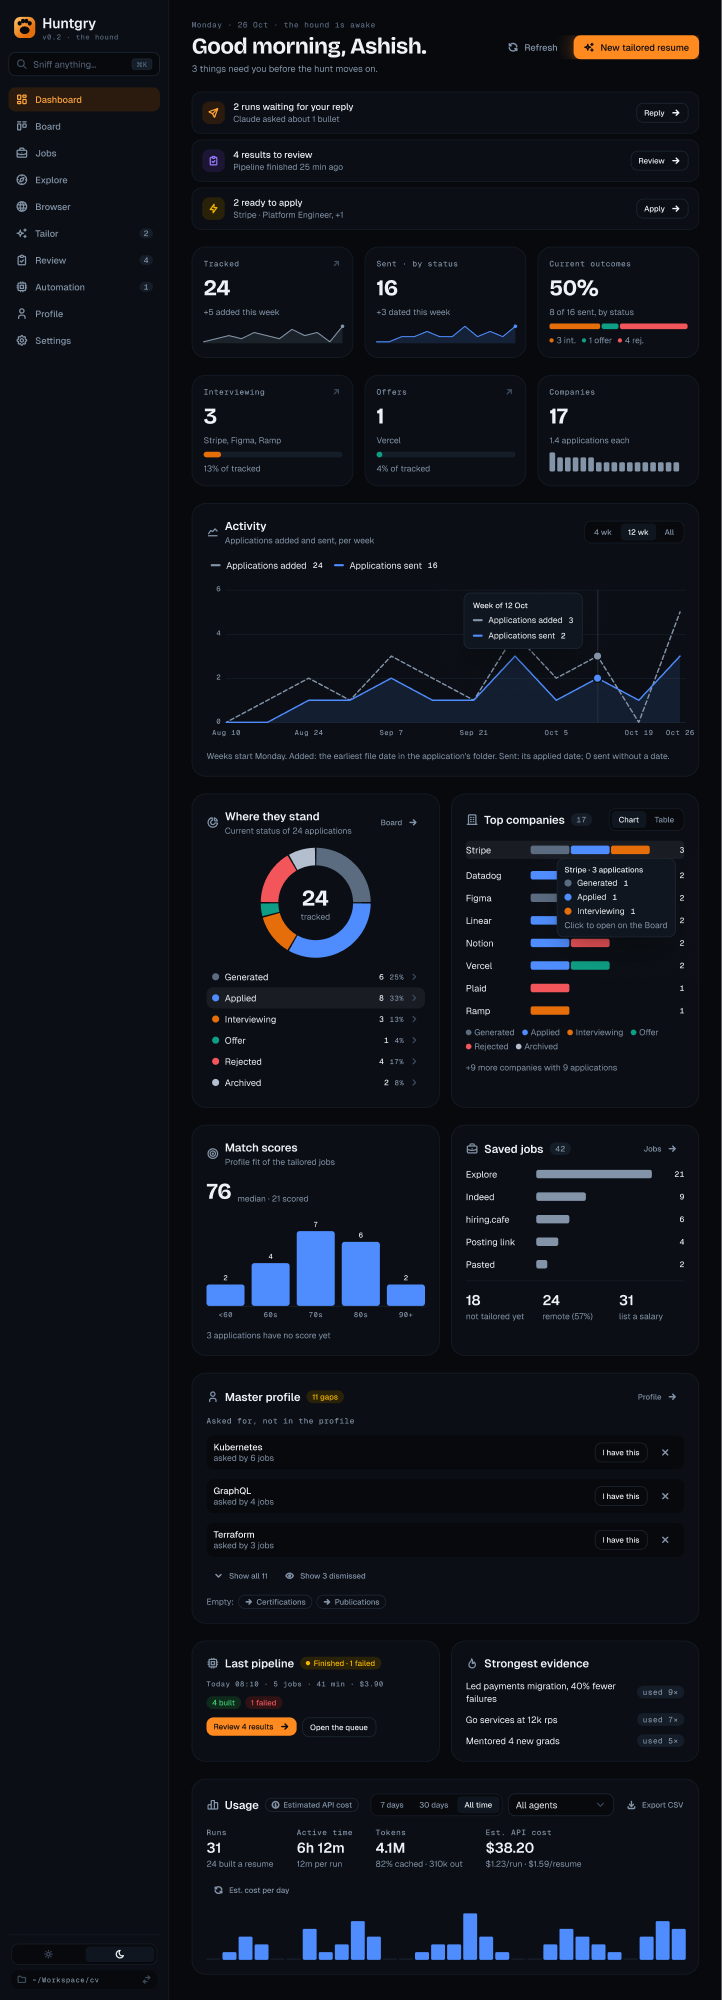
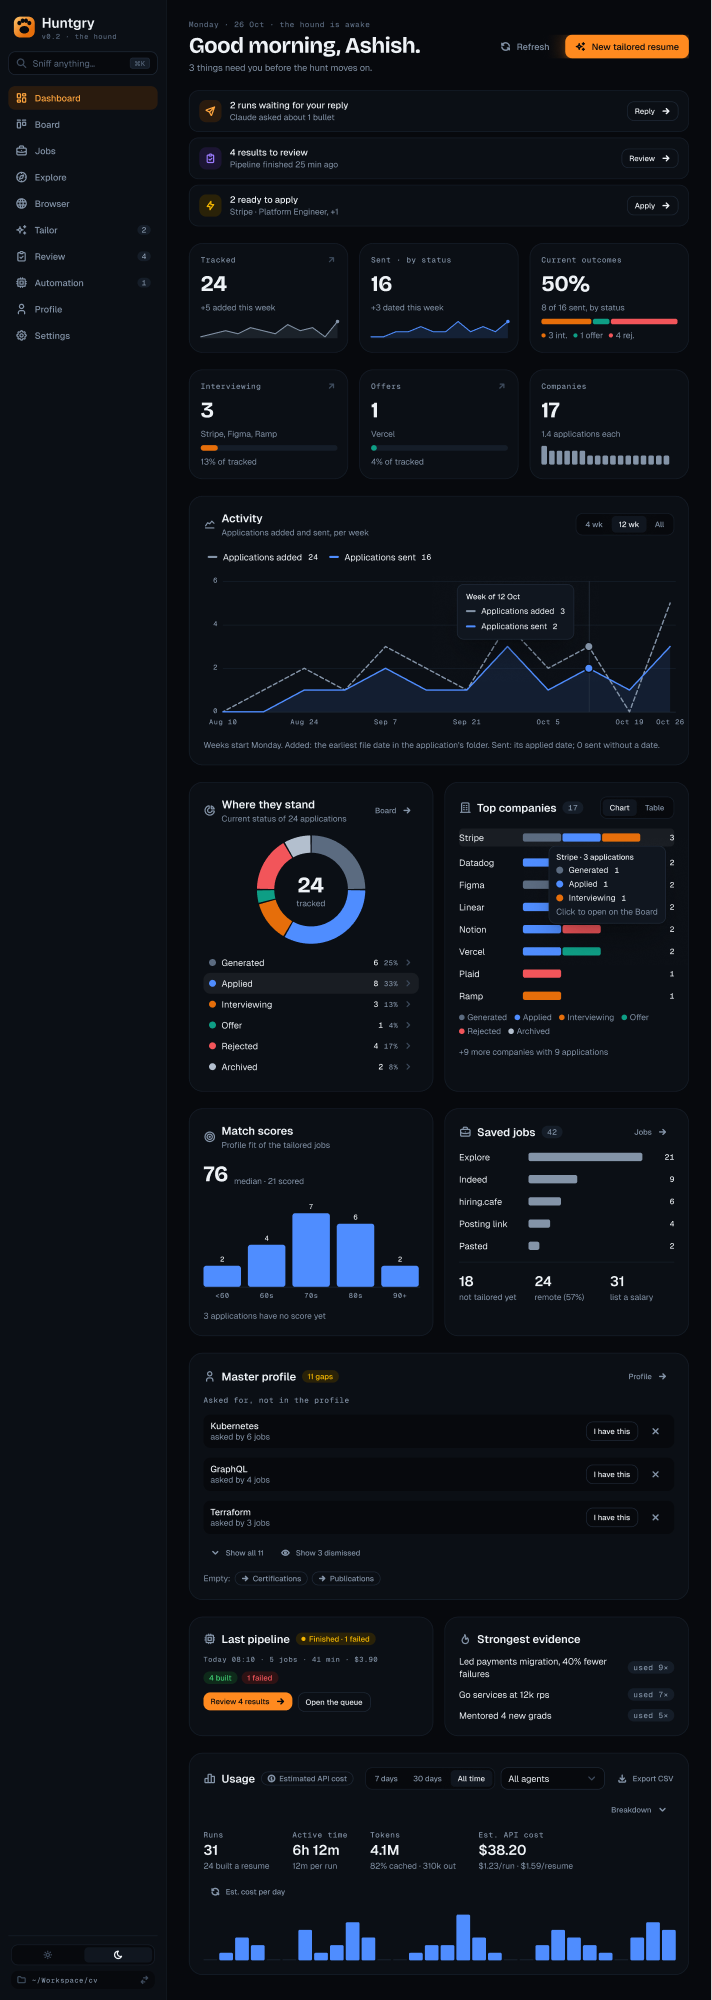
docs(design): Dashboard round 3 low notes: narrow Breakdown, table links, stale reference

diff --git a/docs/design/dashboard-v2.md b/docs/design/dashboard-v2.md
@@ -7,7 +7,7 @@ Figma: [Huntgry — Product & Website Design](https://www.figma.com/design/zhNcc
 | Frame | Light | Dark |
 | --- | --- | --- |
 | Wide (1440) | [68:2](https://www.figma.com/design/zhNccc831dRnOhj2tmqqkc/?node-id=68-2) | [68:712](https://www.figma.com/design/zhNccc831dRnOhj2tmqqkc/?node-id=68-712) |
-| Narrow (1024) | [68:1422](https://www.figma.com/design/zhNccc831dRnOhj2tmqqkc/?node-id=68-1422) | [68:2132](https://www.figma.com/design/zhNccc831dRnOhj2tmqqkc/?node-id=68-2132) |
+| Narrow (1024) | [69:2](https://www.figma.com/design/zhNccc831dRnOhj2tmqqkc/?node-id=69-2) | [69:714](https://www.figma.com/design/zhNccc831dRnOhj2tmqqkc/?node-id=69-714) |
 | Empty (cold start) | [66:2691](https://www.figma.com/design/zhNccc831dRnOhj2tmqqkc/?node-id=66-2691) | [66:2865](https://www.figma.com/design/zhNccc831dRnOhj2tmqqkc/?node-id=66-2865) |
 
 ## What changed since round 1
@@ -70,7 +70,8 @@ From top to bottom:
    - Top companies: the eight companies with the most applications, each a bar stacked by status in the
      donut's colours and order, then "+N more companies with M applications".
      - **Chart / Table** toggle (visible, keyboard-operable) in the card header. The Table view lists each
-       company with a count per status (six columns), so the breakdown never rests on colour alone.
+       company with a count per status (six columns), so the breakdown never rests on colour alone. Its
+       company names are buttons that open the same filtered Board as the chart rows.
      - In the Chart view each row is a button. Pointer hover and keyboard focus show the same tooltip
        ("Stripe · 3 applications: 1 Generated, 1 Applied, 1 Interviewing"), and the button opens the
        Board filtered by that company.
@@ -82,7 +83,7 @@ From top to bottom:
 6. Today's cards, unchanged: **Master profile** (ProfileInsightsCard), with **Last pipeline** and
    **Strongest evidence** in a 420 px column beside it (side by side below 1280 px), then **Usage**.
    The frames draw Usage with its real controls: 7 days / 30 days / All time, the agent select, Export
-   CSV, Breakdown, each KPI's sub-line, and the cost/tokens toggle above the day chart. The unpriced and
+   CSV, Breakdown (on a second header row at narrow widths), each KPI's sub-line, and the cost/tokens toggle above the day chart. The unpriced and
    incomplete-turn notes and the Breakdown panel are unchanged too.
 
 **Below ~1000 px window** (the app's minimum is 900): chart pairs stack to one column, and the donut's
@@ -182,7 +183,7 @@ vision, contrast against the card surface):
 
 - The charts are small SVG components in `components/charts/`: `Sparkline`, `LineChart`, `Donut`,
   `StackedBar`, `Histogram`. They are drawn with the tokens above. UsageCard already draws its own bars,
-  so no chart library is added. Recharts through `@mantine/charts` is the alternative (question 3).
+  so no chart library is added. Recharts through `@mantine/charts` is the alternative (settled in **Decisions from round 2**).
 - Each chart's data comes from a pure function, for example `weeklySeries(apps, range, now)`,
   `statusCounts`, `topCompanies(apps, 8)`, `fitHistogram`, `savedJobStats(jobs)`. Unit tests cover week
   edges (Sunday 23:59 vs Monday 00:00), applications without `appliedAt`, and duplicate company names
